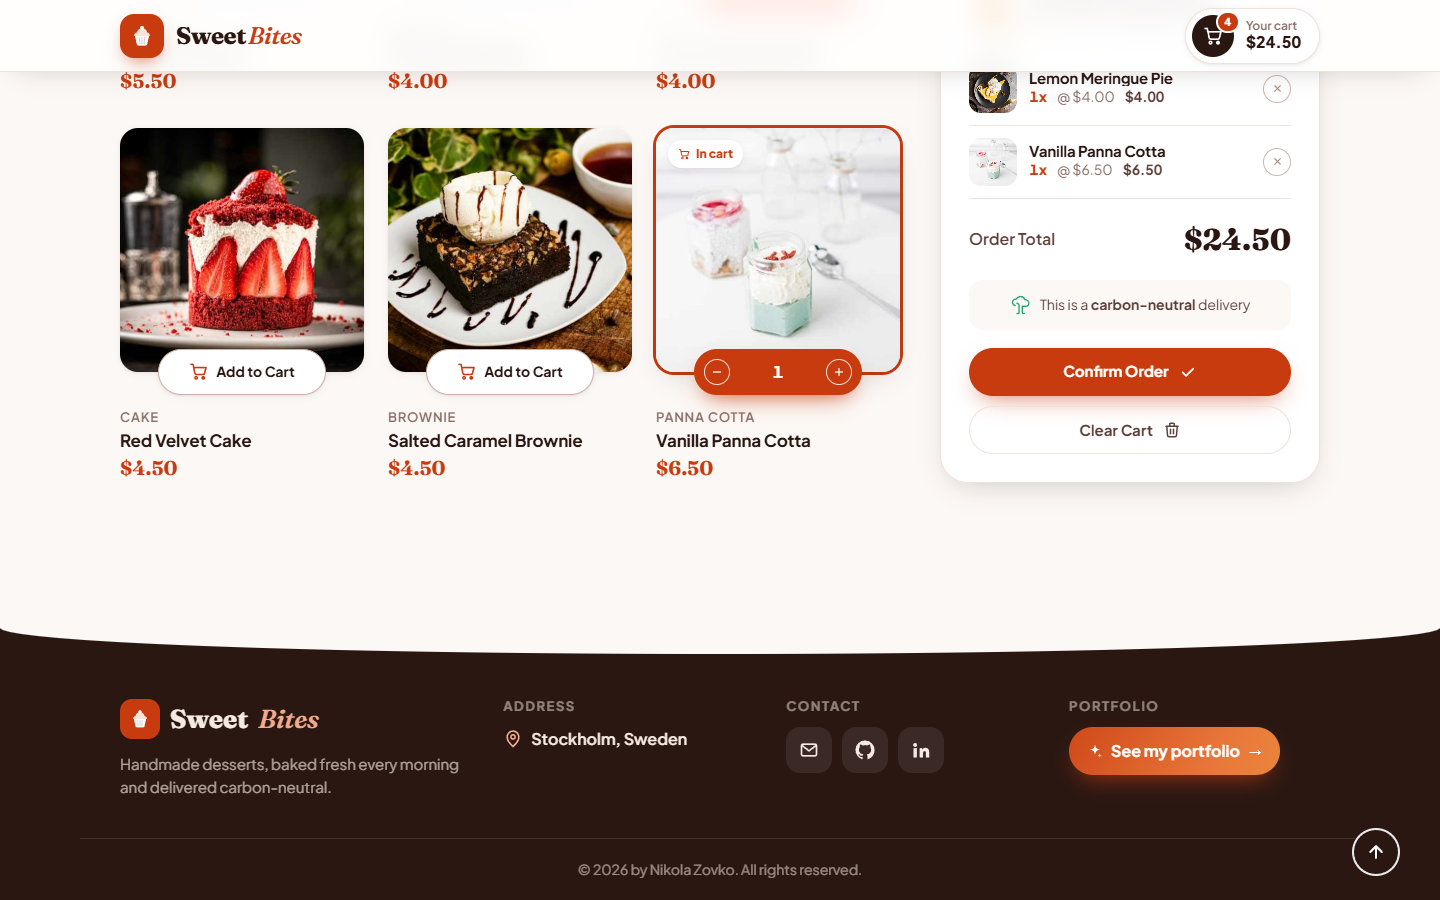
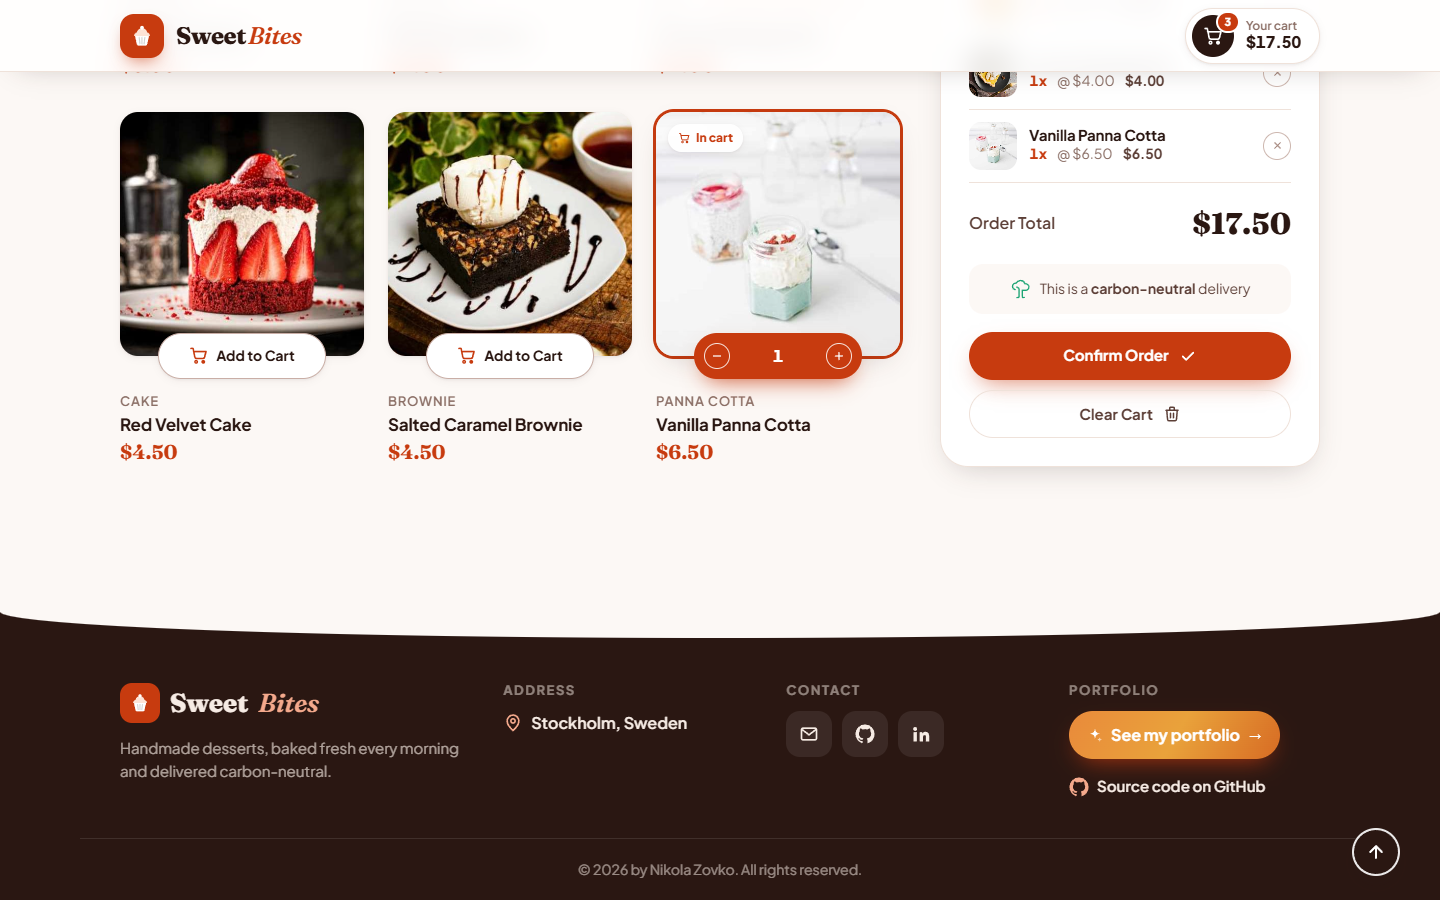
Add project source code link to footer

diff --git a/src/components/layouts/Footer/Footer.jsx b/src/components/layouts/Footer/Footer.jsx
@@ -9,6 +9,7 @@ import useCurrentYear from '../../hooks/useCurrentYear';
 import { CupcakeIcon, GithubIcon, LinkedinIcon, MailIcon, MapPinIcon, SparkleIcon } from '../Icons/Icons';
 
 const PORTFOLIO_URL = 'https://nikolazovkoportfolio.netlify.app/#home';
+const REPO_URL = 'https://github.com/Nikolaz95/ReactJS-Cart';
 const MAP_URL = 'https://www.google.com/maps/place/Stockholm/@59.0968211,17.5065602,7.75z/data=!4m6!3m5!1s0x465f763119640bcb:0xa80d27d3679d7766!8m2!3d59.3293235!4d18.0685808!16zL20vMDZteHM?entry=ttu';
 
 const socials = [
@@ -87,6 +88,9 @@ const Footer = () => {
                         <SparkleIcon /> See my portfolio
                         <span className="portfolioArrow" aria-hidden="true">→</span>
                     </motion.a>
+                    <a href={REPO_URL} target="_blank" rel="noreferrer" className="footerLink footerRepoLink">
+                        <GithubIcon /> Source code on GitHub
+                    </a>
                 </motion.div>
             </motion.div>
 

diff --git a/src/components/layouts/Footer/Footer.css b/src/components/layouts/Footer/Footer.css
@@ -123,6 +123,17 @@
   animation: portfolioGradient 6s ease infinite;
 }
 
+.footerPortfolio {
+  display: flex;
+  flex-direction: column;
+  align-items: flex-start;
+}
+
+.footerRepoLink {
+  margin-top: 16px;
+  font-size: 15px;
+}
+
 .portfolioArrow {
   transition: transform 0.3s var(--ease-out);
 }
